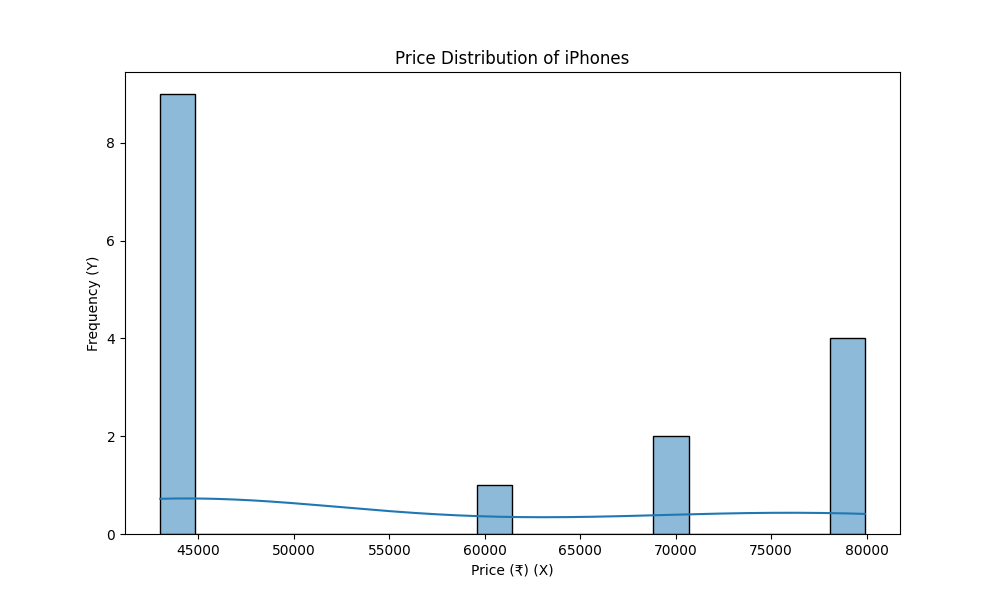
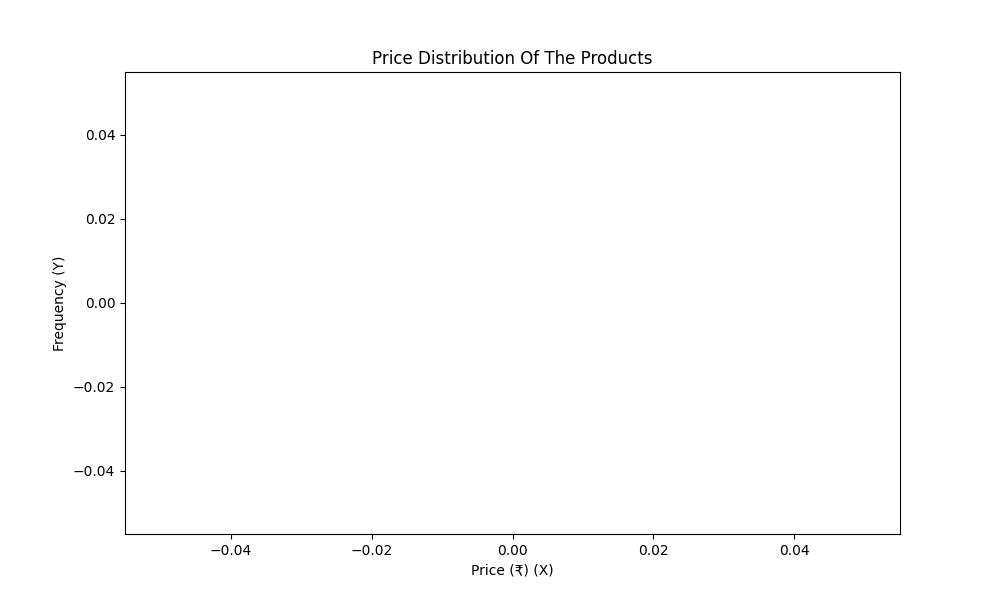
Second Commit

diff --git a/main.py b/main.py
@@ -4,7 +4,7 @@ import requests
 import matplotlib.pyplot as plt
 import seaborn as sns
 
-url = "https://www.amazon.in/s?k=iphone&crid=CHHRCIT3APZL&sprefix=iphone%2Caps%2C243&ref=nb_sb_noss_1"
+url = "https://www.amazon.in/s?k=MacBook&crid=2HVTP1XV3UZHU&sprefix=macbook%2Caps%2C248&ref=nb_sb_noss_1"
 
 headers = {
     'User-Agent': 'Mozilla/5.0 (Macintosh; Intel Mac OS X 10_10_1) AppleWebKit/537.36 (KHTML, like Gecko) Chrome/39.0.2171.95 Safari/537.36'
@@ -40,7 +40,7 @@ df['price'] = df['price'].astype(float)
 plt.figure(figsize=(10,6))
 sns.histplot(df['price'], bins=20, kde=True)
 
-plt.title('Price Distribution of iPhones')
+plt.title('Price Distribution Of The Products')
 plt.xlabel('Price (₹) (X)')
 plt.ylabel('Frequency (Y)')
 
